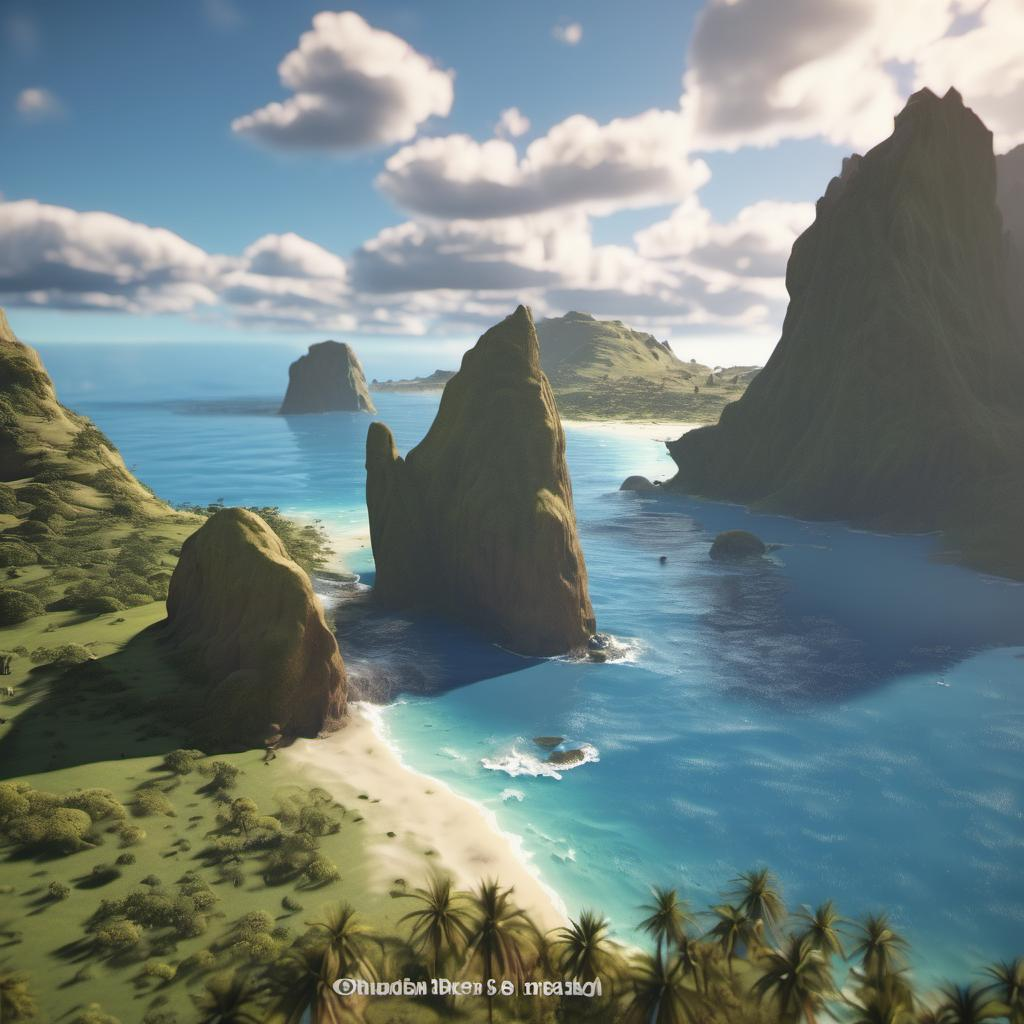
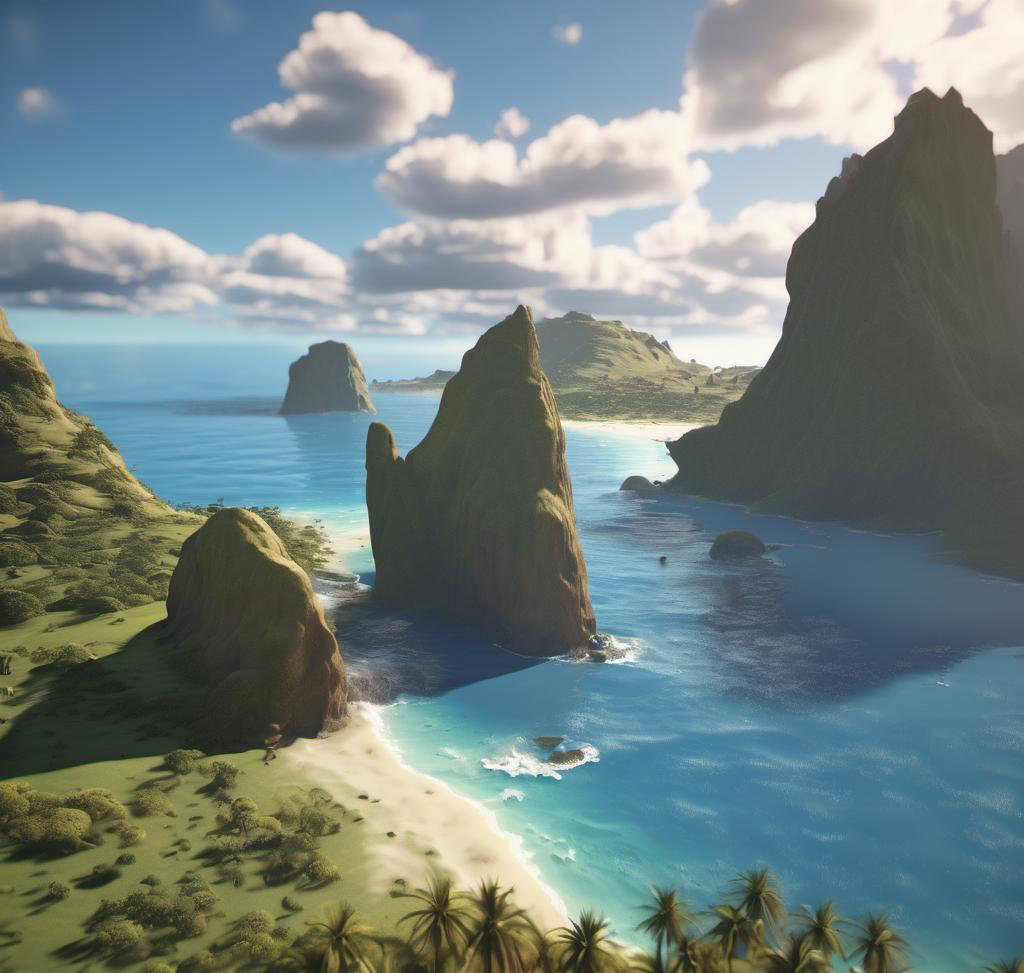
Fix bug with the .jpg .png images of continents

diff --git a/screens/home.py b/screens/home.py
@@ -63,7 +63,7 @@ class HomeScreen(ImprovedScreen):
     completion_percentage_text = StringProperty()
     continent_color = ColorProperty(DICT_CONTINENTS[code_continent])
     continent_image = StringProperty(
-        PATH_CONTINENTS_IMAGES + LIST_CONTINENTS[counter_continents] + ".png")
+        PATH_CONTINENTS_IMAGES + LIST_CONTINENTS[counter_continents] + ".jpg")
     language_image = StringProperty()
     play_label = StringProperty()
 
@@ -156,7 +156,7 @@ class HomeScreen(ImprovedScreen):
         self.continent_name = TEXT.home[self.code_continent]
         self.continent_color = DICT_CONTINENTS[self.code_continent]
         self.continent_image = PATH_CONTINENTS_IMAGES + \
-            LIST_CONTINENTS[self.counter_continents] + ".png"
+            LIST_CONTINENTS[self.counter_continents] + ".jpg"
 
         # Change the score and the completion percentage of the user
         self.highscore = TEXT.home["highscore"] + \
